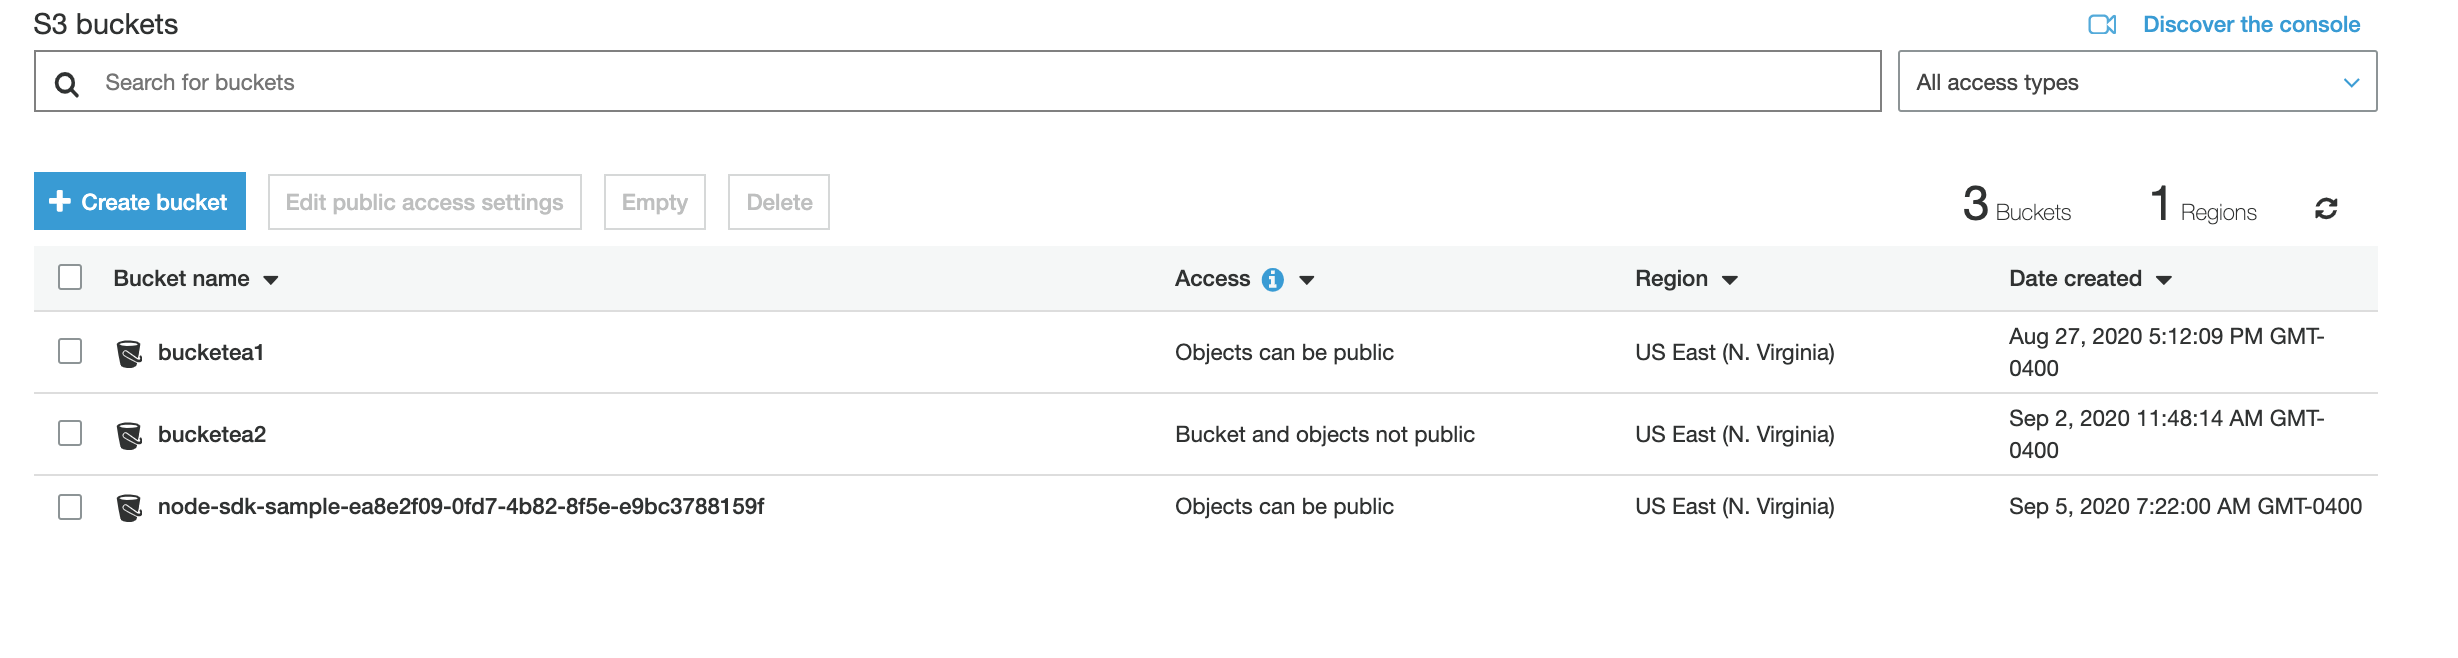
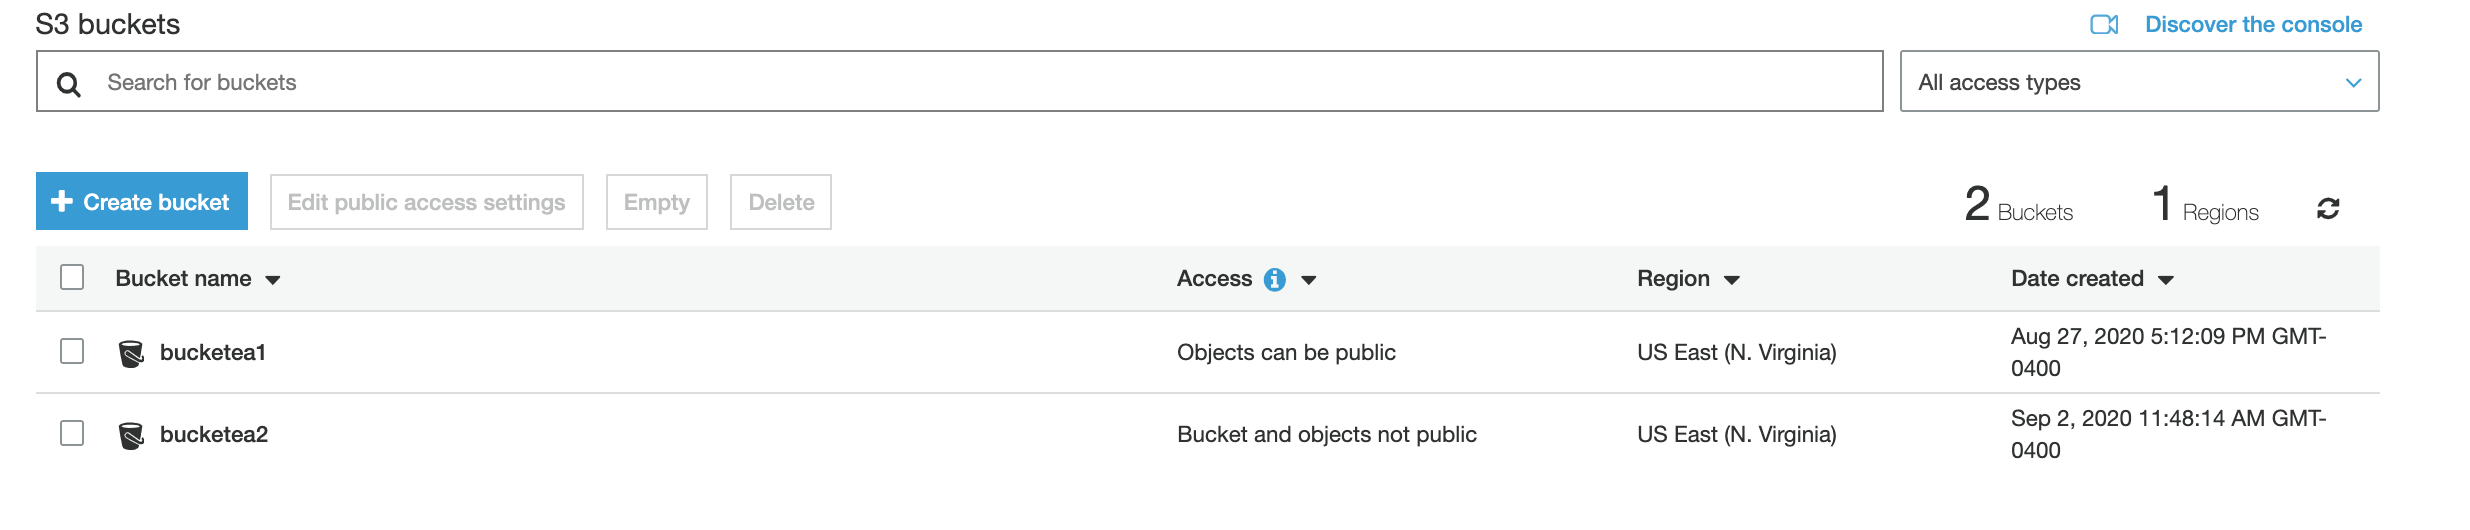
aws cmds added

diff --git a/aws.md b/aws.md
@@ -38,10 +38,7 @@ EXAMPLE
 $ sfdx mohanc:aws:s3:ls 
 [
   { Name: 'bucketea1', CreationDate: 2020-08-27T21:12:09.000Z },
-  { Name: 'bucketea2', CreationDate: 2020-09-02T15:48:14.000Z },
-  {
-    Name: 'node-sdk-sample-ea8e2f09-0fd7-4b82-8f5e-e9bc3788159f',
-    CreationDate: 2020-09-05T11:22:00.000Z
+  { Name: 'bucketea2', CreationDate: 2020-09-02T15:48:14.000Z }
   }
 ]
 
